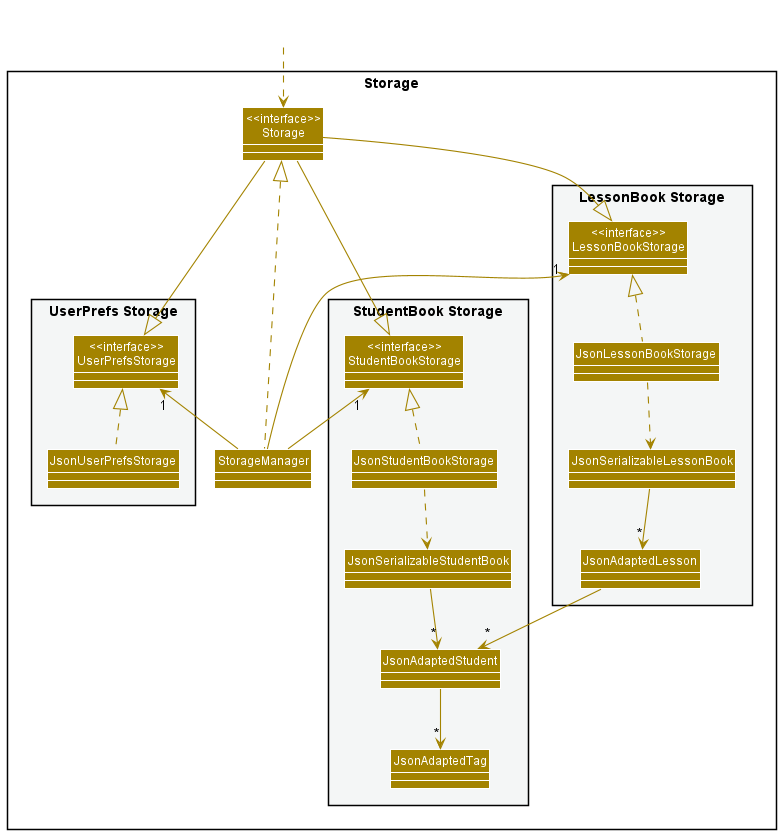
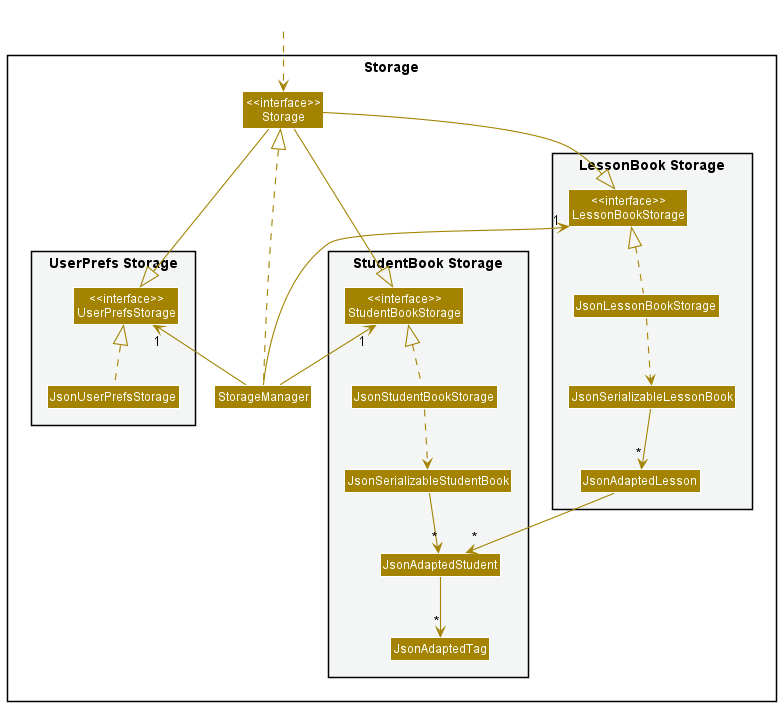
More PGs 4

diff --git a/docs/DeveloperGuide.md b/docs/DeveloperGuide.md
@@ -234,7 +234,7 @@ Each `Lesson` has an association with a list of `EnrolledStudents`, which contai
 
 **API** : [`StorageManager.java`](https://github.com/AY2122S2-CS2103T-W11-3/tp/blob/master/src/main/java/seedu/address/storage/StorageManager.java)
 
-![](images/StorageClassDiagram.png)
+<img src="images/StorageClassDiagram.png" width="600"/>
 
 The `Storage` component
 * saves lesson book data, student book data and user preference data in json format, and read them back into the 
@@ -252,6 +252,8 @@ Classes used by multiple components are in the `seedu.address.commons` package.
 [return to top ↑](#table-of-contents)
 
 --------------------------------------------------------------------------------------------------------------------
+
+<div style="page-break-after: always;"></div>
 
 ## **Implementation**
 
@@ -282,6 +284,8 @@ list.
 receives the user input through the `MainWindow#executeCommand()` method. 
 [`MainWindow`](https://github.com/AY2122S2-CS2103T-W11-3/tp/blob/master/src/main/java/seedu/address/ui/MainWindow.java)
 then sends the user input to `Logic` and retrieves the result.
+
+<div style="page-break-after: always;"></div>
 
 #### Step 2: `Logic` parses the user's input and returns the result
 
@@ -316,9 +320,11 @@ object, with the parameter `infoPanelType = InfoPanelTypes.STUDENT`.
 is an enumerator representing the different states of the InfoPanel. This is then returned to `LogicManager` which
 returns it back to `MainWindow`.
 
+<div style="page-break-after: always;"></div>
+
 #### Step 4: Updating the UI
 
-![](images/viewing-details/ViewStudentSequenceDiagram.png)
+<img src="images/viewing-details/ViewStudentSequenceDiagram.png" width="500"/>
 
 Once 
 [`MainWindow`](https://github.com/AY2122S2-CS2103T-W11-3/tp/blob/master/src/main/java/seedu/address/ui/MainWindow.java) 
@@ -335,7 +341,7 @@ is shown on the right side of the application.
 The execution of the command is complete and the result is shown in the image below, where the right side of the
 application is updated with the details of the selected `Student`.
 
-<img src="images/viewing-details/UiExample.png" width="550" />
+<img src="images/viewing-details/UiExample.png" width="500" />
 
 A similar process is done when using the `lesson` command but with its corresponding `Parser` and `Command` objects.
 
